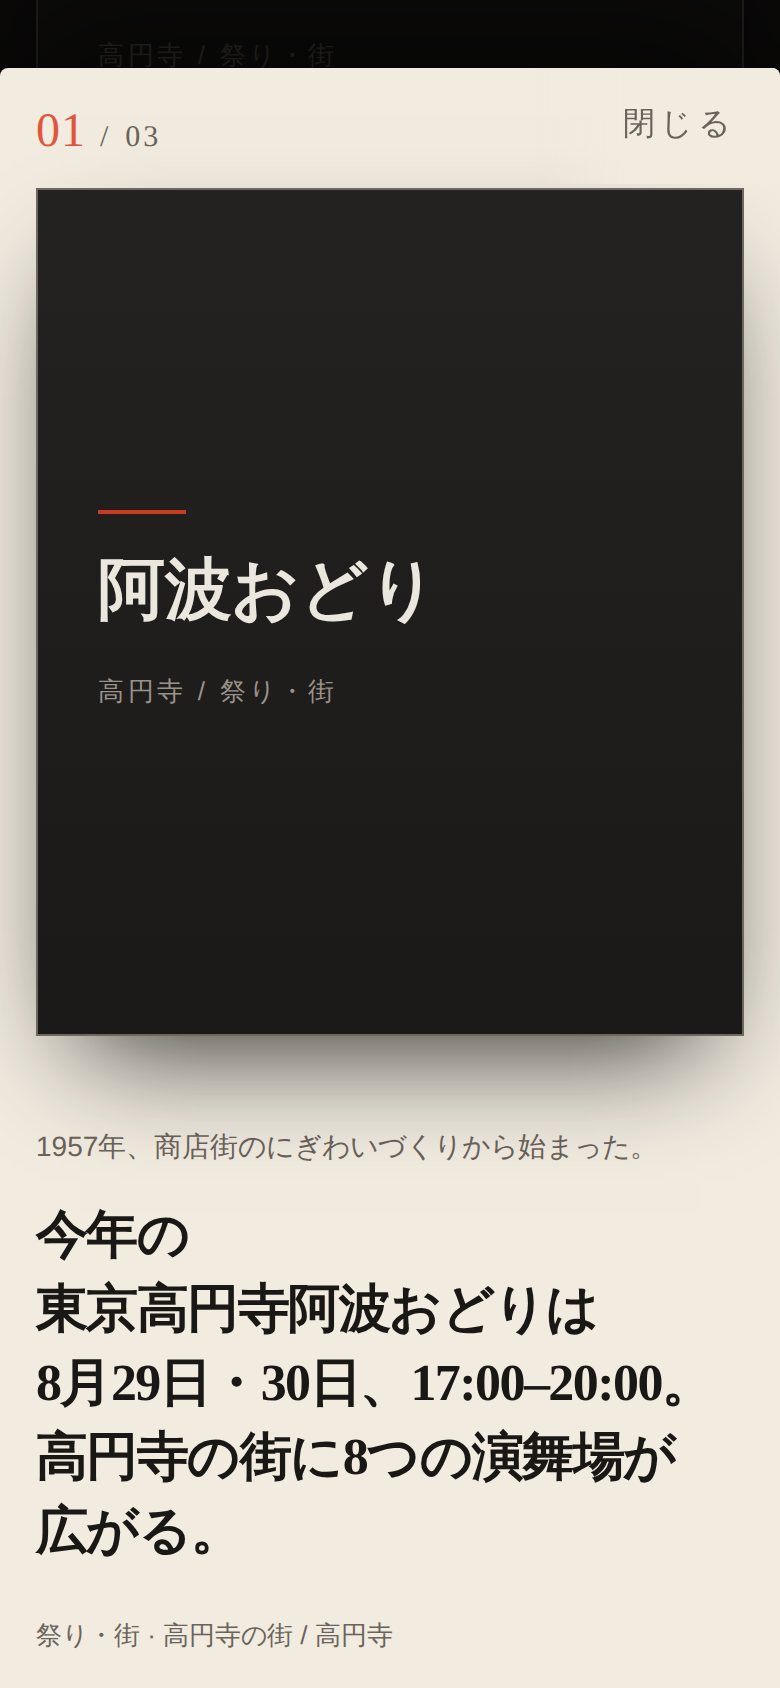
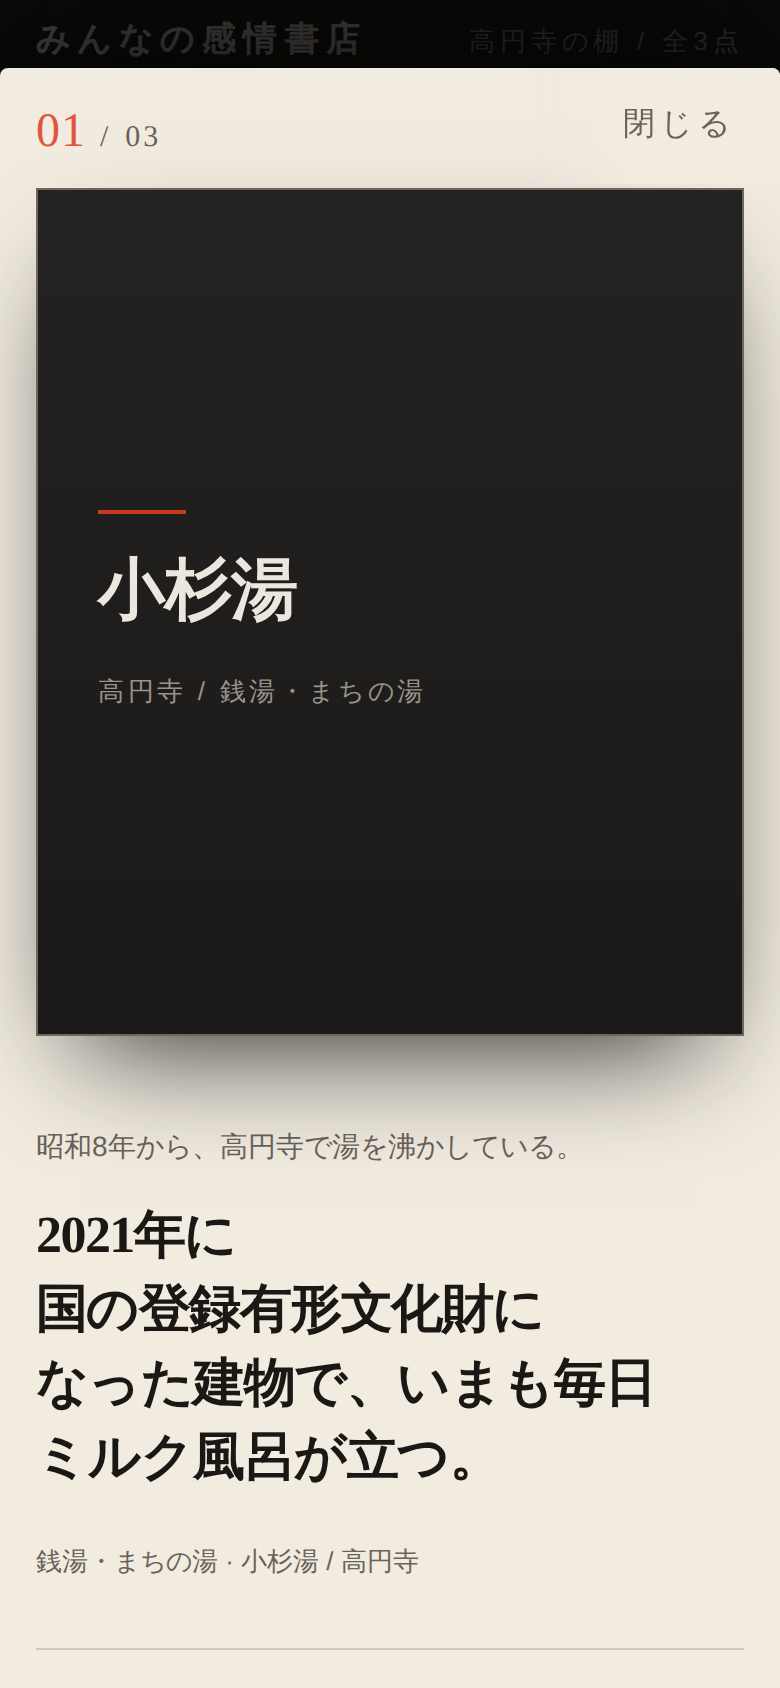
content: 8/30 で切れる2件を、期限のない事実へ入れ替える
Founder が公式ページで出典を確認して承認した2件。
これで 8/30 に高円寺と下北沢が閉じる問題が消え、いちばん早い期限は
2026-09-11（神保町の溝口健二特集）まで伸びた。

高円寺 koenji-awaodori-2026（会期もの）→ kosugiyu（通年）
  hook   昭和8年から、高円寺で湯を沸かしている。
  reveal 2021年に国の登録有形文化財になった建物で、いまも毎日ミルク風呂が立つ。
  種類   体験・おでかけ（阿波おどりと同じ枠）/ 出典 https://kosugiyu.co.jp/

下北沢 honda-theater は object を残し、いまの公演の話をやめて劇場そのものへ
  hook   下北沢が演劇の街になったのは、元映画俳優が一人いたから。
  reveal 本多一夫が1981年にザ・スズナリ、1982年に本多劇場を開いた。
         いまも本多劇場グループの各館が駅の周りに点在している。
  種類   映画・演劇（変更なし）/ 出典 https://www.honda-geki.com/
  mode   current -> evergreen

事実は Founder が確認した範囲だけを書いた。検索で見えただけの情報は
入れていない。verifiedAt は確認時刻。

あわせて qa/release_expiry_boundaries.js を content 非依存にした。
先に browser_qa.js だけ直していて、こちらが 2026-08-30 20:00 と
koenji-awaodori-2026 に張り付いたまま残っていた（同じ root cause の
取りこぼし）。flagship と「いちばん早く切れるもの」を content から導き、
その1分前は GO・その瞬間から FAIL・flagship は理由に出ない、を見る形へ。
期限が0件になった場合は黙って通さず NOT OBSERVABLE として残す。

判定（スクリプトの exit code。実装役の自己申告ではない）:
  RELEASE_CHECK_GO        4棚×3件 / current 4 -> 2 /
                          索引 food1 experience4 books3 music2 film-stage4（不変）
  RELEASE_PREFLIGHT_GO
  RELEASE_EXPIRY_BOUNDARIES_GO
    flagship=tokyo 期限なし / soonest jinbocho 2026-09-11T23:59+09:00
    8/31 GO / 9/5 GO / 9/11 23:58 GO / 9/12 00:01 FAIL(jinbocho)
  RELEASE_BROWSER_QA_GO   560/560
  負のテスト（判定役が落とせること）
    東京へ finite expiry を戻す      -> BOUNDARIES_FAIL exit=1
    preflight の期限判定を外す        -> BOUNDARIES_FAIL exit=1
  frozen Tokyo Pilot 無傷: 301/301 / analyzer 13/13 / GA4 16/16 / storage 31/31
  git diff --check clean
[…]

diff --git a/v3-prototype/release-01/qa/release_expiry_boundaries.js b/v3-prototype/release-01/qa/release_expiry_boundaries.js
@@ -1,10 +1,14 @@
 #!/usr/bin/env node
 /* 期限の境目を1本の表として固定する。
  *
- * ここで守りたいこと:
- *  - 東京 flagship は日付で閉じない（evergreen に finite expiry を戻さない）。
- *  - いちばん早く切れるのは高円寺の阿波おどりで、その1分前までは GO。
- *  - その瞬間からは FAIL し、理由として当該 id が名指しされる。
+ * 守りたいのは特定の会期ではなく、次の3つ:
+ *   - 日付に依存しない事実（evergreen）に finite expiry を持たせないこと
+ *   - 東京 flagship が日付で閉じないこと
+ *   - いちばん早く切れるものの境目が、本当にその1分の間にあること
+ *
+ * だから対象は release_content.js から実行時に導出する。id や日付をここへ
+ * 書くと、content を差し替えた瞬間に落ちて、product の欠陥と fixture の
+ * 賞味期限切れを判定者が区別できなくなる。
  *
  * preflight を実際に起動して判定させる。preflight 自身のロジックは複製しない。
  */
@@ -24,47 +28,83 @@ function run(at) {
     return { code: e.status, out: (e.stdout || '') + (e.stderr || '') };
   }
 }
+const iso = (ms) => new Date(ms).toISOString();
 
 const failures = [];
-const expect = (label, ok, detail) => { if (!ok) failures.push(`${label}${detail === undefined ? '' : ' :: ' + detail}`); };
+const unobserved = [];
+const expect = (label, ok, detail) => {
+  if (!ok) failures.push(`${label}${detail === undefined ? '' : ' :: ' + detail}`);
+};
 
-/* 1. evergreen は finite expiry を持たない ------------------------------- */
 const sandbox = { window: {} };
 vm.createContext(sandbox);
 vm.runInContext(fs.readFileSync(path.join(ROOT, 'release_content.js'), 'utf8'), sandbox);
-for (const shelf of sandbox.window.V3_RELEASE_CONTENT.shelves) {
+const CONTENT = sandbox.window.V3_RELEASE_CONTENT;
+
+/* 1. evergreen は finite expiry を持たない ------------------------------- */
+for (const shelf of CONTENT.shelves) {
   for (const o of shelf.objects) {
     if (o.mode === 'evergreen' && o.expiresAt) {
       expect(`evergreen_has_no_finite_expiry ${shelf.id}/${o.id}`, false, String(o.expiresAt));
     }
   }
 }
-const tokyo = sandbox.window.V3_RELEASE_CONTENT.shelves.find((s) => s.id === 'tokyo');
-expect('tokyo_shelf_carries_no_expiry_at_all',
-  tokyo.objects.every((o) => !o.expiresAt),
-  tokyo.objects.filter((o) => o.expiresAt).map((o) => o.id).join(','));
 
-/* 2. 旧 Pilot 由来の 8/30 16:00 では、まだ何も切れていない --------------- */
-const at1600 = run('2026-08-30T16:00:00+09:00');
-expect('preflight_GO_at_2026-08-30T16:00+09:00', at1600.code === 0 && /RELEASE_PREFLIGHT_GO/.test(at1600.out), at1600.out.trim().split('\n')[0]);
-expect('tokyo_not_named_at_1600', !/manuscript-cafe/.test(at1600.out));
+/* 2. 東京 flagship は日付で閉じない -------------------------------------- */
+const flagship = CONTENT.shelves.find((s) => s.role === 'flagship');
+expect('a_flagship_shelf_exists', !!flagship);
+if (flagship) {
+  const dated = flagship.objects.filter((o) => o.expiresAt).map((o) => o.id);
+  expect(`${flagship.id}_carries_no_expiry_at_all`, dated.length === 0, dated.join(','));
+}
 
-/* 3. 高円寺の阿波おどりが切れる1分前まで GO ------------------------------ */
-const at1959 = run('2026-08-30T19:59:00+09:00');
-expect('preflight_GO_at_2026-08-30T19:59+09:00', at1959.code === 0 && /RELEASE_PREFLIGHT_GO/.test(at1959.out), at1959.out.trim().split('\n')[0]);
+/* 3/4. いちばん早く切れるものの境目 -------------------------------------- */
+const dated = [];
+for (const shelf of CONTENT.shelves) {
+  for (const o of shelf.objects) {
+    if (!o.expiresAt) continue;
+    const at = Date.parse(o.expiresAt);
+    if (!isNaN(at)) dated.push({ shelf, object: o, at });
+  }
+}
+dated.sort((a, b) => a.at - b.at);
+const soonest = dated[0];
 
-/* 4. その瞬間から FAIL し、理由は阿波おどり ------------------------------ */
-for (const at of ['2026-08-30T20:00:00+09:00', '2026-08-30T20:01:00+09:00', '2026-08-31T09:00:00+09:00']) {
-  const r = run(at);
-  expect(`preflight_FAIL_at_${at}`, r.code !== 0 && /RELEASE_PREFLIGHT_FAIL/.test(r.out), r.out.trim().split('\n')[0]);
-  expect(`fail_names_koenji_awaodori_at_${at}`, /koenji\/koenji-awaodori-2026/.test(r.out));
-  expect(`tokyo_never_the_reason_at_${at}`, !/manuscript-cafe/.test(r.out));
+if (!soonest) {
+  // 期限を持つ object が content に無い。境目は実物では観測できない。
+  // 黙って通さず、見られなかったこととして残す。
+  unobserved.push('expiry_boundary :: no object in release_content.js carries an expiresAt');
+} else {
+  const before = run(iso(soonest.at - 60 * 1000));
+  expect(`preflight_GO_one_minute_before_${soonest.object.id}_expires`,
+    before.code === 0 && /RELEASE_PREFLIGHT_GO/.test(before.out),
+    before.out.trim().split('\n')[0]);
+
+  for (const offset of [0, 60 * 1000, 24 * 3600 * 1000]) {
+    const at = iso(soonest.at + offset);
+    const r = run(at);
+    expect(`preflight_FAIL_at_${at}`,
+      r.code !== 0 && /RELEASE_PREFLIGHT_FAIL/.test(r.out), r.out.trim().split('\n')[0]);
+    expect(`fail_names_${soonest.object.id}_at_${at}`,
+      r.out.includes(`${soonest.shelf.id}/${soonest.object.id}`));
+    if (flagship) {
+      for (const o of flagship.objects) {
+        expect(`${flagship.id}_never_the_reason_at_${at}`, !r.out.includes(`${flagship.id}/${o.id}`));
+      }
+    }
+  }
 }
 
 if (failures.length) {
   console.error('RELEASE_EXPIRY_BOUNDARIES_FAIL');
   failures.forEach((f) => console.error('- ' + f));
+  unobserved.forEach((u) => console.error('- NOT OBSERVABLE ' + u));
   process.exit(1);
 }
-console.log('RELEASE_EXPIRY_BOUNDARIES_GO');
-console.log('tokyo=no expiry; 2026-08-30 16:00 GO; 19:59 GO; 20:00 FAIL (koenji/koenji-awaodori-2026)');
+console.log(`RELEASE_EXPIRY_BOUNDARIES_GO${unobserved.length ? `, ${unobserved.length} NOT OBSERVABLE` : ''}`);
+if (soonest) {
+  console.log(`flagship=${flagship ? flagship.id : 'n/a'} no expiry; ` +
+    `soonest ${soonest.shelf.id}/${soonest.object.id} at ${soonest.object.expiresAt}; ` +
+    'GO one minute before, FAIL from that instant');
+}
+unobserved.forEach((u) => console.log('- NOT OBSERVABLE ' + u));

diff --git a/v3-prototype/release-01/release_content.js b/v3-prototype/release-01/release_content.js
@@ -174,34 +174,34 @@ window.V3_RELEASE_CONTENT = {
       area: '高円寺',
       objects: [
         {
-          id: 'koenji-awaodori-2026',
+          id: 'kosugiyu',
           categoryIds: ['experience'],
-          objectName: '東京高円寺阿波おどり',
-          placeName: '高円寺の街 / 高円寺',
-          typeLabel: '祭り・街',
-          mode: 'current',
-          hook: '1957年、商店街のにぎわいづくりから始まった。',
-          hookPhrases: ['1957年、', '商店街の', 'にぎわいづくりから', '始まった。'],
-          reveal: '今年の東京高円寺阿波おどりは8月29日・30日、17:00–20:00。高円寺の街に8つの演舞場が広がる。',
-          revealPhrases: ['今年の', '東京高円寺阿波おどりは', '8月29日・30日、', '17:00–20:00。', '高円寺の街に', '8つの演舞場が', '広がる。'],
+          objectName: '小杉湯',
+          placeName: '小杉湯 / 高円寺',
+          typeLabel: '銭湯・まちの湯',
+          mode: 'evergreen',
+          hook: '昭和8年から、高円寺で湯を沸かしている。',
+          hookPhrases: ['昭和8年から、', '高円寺で', '湯を沸かしている。'],
+          reveal: '2021年に国の登録有形文化財になった建物で、いまも毎日ミルク風呂が立つ。',
+          revealPhrases: ['2021年に', '国の登録有形文化財に', 'なった建物で、', 'いまも毎日', 'ミルク風呂が', '立つ。'],
           facts: [
-            ['開催', '2026年8月29日・30日 17:00–20:00'],
-            ['会場', '高円寺の街なか 8つの演舞場'],
-            ['確認', '当日の実施可否と最新の会場図は公式ページで確認']
+            ['創業', '昭和8年（1933年）'],
+            ['建物', '2021年に国の登録有形文化財へ登録'],
+            ['利用', '営業時間と休みは公式ページで確認']
           ],
-          actionLabel: '公式の開催情報を見る',
-          actionUrl: 'https://koenji-awaodori.com/about/about01.html',
+          actionLabel: '小杉湯の公式ページを見る',
+          actionUrl: 'https://kosugiyu.co.jp/',
           media: {
             kind: 'plate',
-            plateWord: '阿波おどり',
-            plateSub: '高円寺 / 祭り・街',
+            plateWord: '小杉湯',
+            plateSub: '高円寺 / 銭湯・まちの湯',
             ratio: '4 / 5',
-            listAlt: '「阿波おどり」と大きく組んだ、この棚のための活字図版',
-            detailAlt: '「阿波おどり」と大きく組んだ、この棚のための活字図版'
+            listAlt: '「小杉湯」と大きく組んだ、この棚のための活字図版',
+            detailAlt: '「小杉湯」と大きく組んだ、この棚のための活字図版'
           },
-          factsSourceUrl: 'https://koenji-awaodori.com/about/about01.html',
-          verifiedAt: '2026-08-28T23:08:00+09:00',
-          expiresAt: '2026-08-30T20:00:00+09:00'
+          factsSourceUrl: 'https://kosugiyu.co.jp/',
+          verifiedAt: '2026-08-29T14:26:00+09:00',
+          expiresAt: null
         },
         {
           id: 'jirokichi',
@@ -308,15 +308,15 @@ window.V3_RELEASE_CONTENT = {
           objectName: '本多劇場',
           placeName: '本多劇場 / 下北沢',
           typeLabel: '劇場・演劇',
-          mode: 'current',
-          hook: '下北沢では、今夜も本多劇場の舞台が上がっている。',
-          hookPhrases: ['下北沢では、', '今夜も', '本多劇場の', '舞台が', '上がっている。'],
-          reveal: '8月26日–30日は名取事務所『東京ブギウギと鈴木大拙』を上演。周辺の本多劇場グループ各館でも同時に複数公演が動いている。',
-          revealPhrases: ['8月26日–30日は', '名取事務所', '『東京ブギウギと鈴木大拙』を', '上演。', '周辺の', '本多劇場グループ各館でも', '同時に', '複数公演が', '動いている。'],
+          mode: 'evergreen',
+          hook: '下北沢が演劇の街になったのは、元映画俳優が一人いたから。',
+          hookPhrases: ['下北沢が', '演劇の街に', 'なったのは、', '元映画俳優が', '一人いたから。'],
+          reveal: '本多一夫が1981年にザ・スズナリ、1982年に本多劇場を開いた。いまも本多劇場グループの各館が駅の周りに点在している。',
+          revealPhrases: ['本多一夫が', '1981年に', 'ザ・スズナリ、', '1982年に', '本多劇場を開いた。', 'いまも', '本多劇場グループの', '各館が', '駅の周りに', '点在している。'],
           facts: [
-            ['上演', '2026年8月26日–30日 名取事務所『東京ブギウギと鈴木大拙』'],
-            ['周辺', '本多劇場グループ各館でも同時に複数公演'],
-            ['確認', '開演時刻と当日券は公式ページで確認']
+            ['開場', '1982年11月3日'],
+            ['規模', '客席386席。本多劇場グループで最大'],
+            ['確認', '公演と当日券は公式ページで確認']
           ],
           actionLabel: '本多劇場の公演を見る',
           actionUrl: 'https://www.honda-geki.com/',
@@ -329,8 +329,8 @@ window.V3_RELEASE_CONTENT = {
             detailAlt: '「本多劇場」と大きく組んだ、この棚のための活字図版'
           },
           factsSourceUrl: 'https://www.honda-geki.com/',
-          verifiedAt: '2026-08-28T23:08:00+09:00',
-          expiresAt: '2026-08-30T23:59:00+09:00'
+          verifiedAt: '2026-08-29T14:26:00+09:00',
+          expiresAt: null
         },
         {
           id: 'machinouede-film',

diff --git a/v3-prototype/release-01/qa/EDITORIAL_ROTATION.md b/v3-prototype/release-01/qa/EDITORIAL_ROTATION.md
@@ -8,26 +8,30 @@
 （`この棚はいま準備中です。`）。別の object へ自動で差し替わることはない。
 差し替えは人の編集だけで行う、という契約になっている。
 
-実測したカレンダー（RC02 `bf6e156` 時点）:
+実測したカレンダー（2026-08-29 の差し替え後）:
 
-| 日時 (JST) | 東京 | 高円寺 | 下北沢 | 神保町 | 種類の索引 |
-|---|---|---|---|---|---|
-| 〜2026-08-30 20:00 | 開 | 開 | 開 | 開 | experience 4 / film-stage 4 |
-| 2026-08-30 20:00〜 | 開 | **閉** | 開 | 開 | experience 3 |
-| 2026-08-31 00:00〜 | 開 | **閉** | **閉** | 開 | experience 3 / film-stage 3 |
-| 2026-09-12 00:00〜 | 開 | **閉** | **閉** | **閉** | film-stage 2 |
+| 日時 (JST) | 東京 | 高円寺 | 下北沢 | 神保町 |
+|---|---|---|---|---|
+| 〜2026-09-11 23:59 | 開 | 開 | 開 | 開 |
+| 2026-09-12 00:00〜 | 開 | 開 | 開 | **閉** |
+| 2026-09-28 00:00〜 | 開 | 開 | **閉** | **閉** |
 
 玄関は4棚を出し続ける（棚自体は在るため）。閉じた棚を押すと準備中の一文になる。
 索引の件数は正直に減る。水増しも自動補充もしない。
 
-期限を持つ object と、その期限:
+期限を持つ object は2件だけになった:
 
 ```
-koenji/koenji-awaodori-2026              2026-08-30T20:00:00+09:00
-shimokitazawa/honda-theater              2026-08-30T23:59:00+09:00
 jinbocho/jinbocho-theater-mizoguchi-2026 2026-09-11T23:59:00+09:00
 shimokitazawa/shimokitazawa-shelter      2026-09-27T23:59:00+09:00
 ```
+
+2026-08-29 に、8/30 で切れる2件を期限なしへ入れ替えた。
+- 高円寺 `koenji-awaodori-2026`（会期もの）→ `kosugiyu`（通年）
+- 下北沢 `honda-theater` は object を残したまま、いまの公演の話をやめて
+  劇場そのものの話へ。`current` → `evergreen`。
+
+会期・公演を入れるとまた同じことが起きる。日付に縛られない事実を優先する。
 
 ## 差し替えの手順
 
